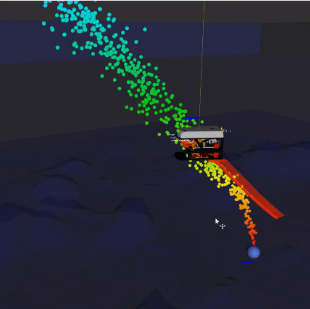
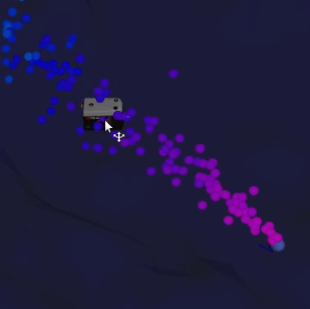
Final Portfolio writeup
Revising existing content on uuvsim page.

Changed region(s): [[0.0, 0.0, 1.0, 0.8738], [0.4645, 0.0874, 0.4935, 0.1165]]

diff --git a/projects/uuvsim.html b/projects/uuvsim.html
@@ -15,25 +15,28 @@
     </div>
 
     <div class="first">
-      This is my ongoing MSR winter quarter project. I will be using the plume simulation feature in the <a href="https://github.com/uuvsimulator/uuv_simulator" style="color: #00ccff" target="_blank">UUV Simulator</a> to implement various plume detection algorithms and methods. UUV Simulator was developed in the scope of the EU ECSEL project 662107 SWARMS for unmanned underwater vehicle simulation based on Gazebo and ROS by <a href="https://github.com/musamarcusso" style="color: #00ccff" target="_blank">Musa Morena Marcusso Manhaes</a>. Since its beginnings in 2016 it seems to have gained significant traction in the maritime ROS and robotics community, especially in Europe. It was a topic of discussion at underwater ROS workshops such as <a href="https://discourse.ros.org/t/bts-2018-workshop-adoption-of-conventions-in-the-underwater-ros-community/5389" style="color: #00ccff" target="_blank">BTS 2018</a> and a underwater ROS workshop <a href="https://discourse.ros.org/t/underwater-ros-workshop-woods-hole-oceanographic-institution/5197" style="color: #00ccff" target="_blank">at Woods Hole Oceanographic Institution</a>.
+      This is my MSR winter quarter project. I used the plume simulation feature in the <a href="https://github.com/uuvsimulator/uuv_simulator" style="color: #00ccff" target="_blank">UUV Simulator</a> to implement a plume detection and tracing algorithm. UUV Simulator was developed by <a href="https://github.com/musamarcusso" style="color: #00ccff" target="_blank">Musa Morena Marcusso Manhaes</a> in the scope of the EU ECSEL project 662107 SWARMS for unmanned underwater vehicle simulation based on Gazebo and ROS. It supports custom underwater robot models, thruster managers, and seabed models, as well as utilizing underwater dynamics and plume disperson models from academic papers and established works. Since when it began development in 2016 it seems to have gained significant traction in the maritime ROS and robotics community, especially in Europe. It was a topic of discussion at underwater ROS workshops such as <a href="https://discourse.ros.org/t/bts-2018-workshop-adoption-of-conventions-in-the-underwater-ros-community/5389" style="color: #00ccff" target="_blank">BTS 2018</a> and an underwater ROS workshop <a href="https://discourse.ros.org/t/underwater-ros-workshop-woods-hole-oceanographic-institution/5197" style="color: #00ccff" target="_blank">at Woods Hole Oceanographic Institution</a>.
       <br><br>
-      With this project I aim to familiarize myself with a potentially useful tool for future work and study in the field of underwater robots. Furthermore, I hope to continue to learn about the unique challenges that face robots in underwater environments through implementation of plume detection, a very common application of underwater robots in both commercial and scientific uses.
+      With this project I aimed to familiarize myself with a potentially useful tool for future work and study in the field of underwater robots. Furthermore, I hoped to learn about the unique challenges that face robots in underwater environments through implementation of plume detection and tracing, a very common application of underwater robots in both commercial and scientific uses.
     </div>
 
     <div class="second">
       <img src="../links/waypoint_following.png" class="waypoints">
       <div class="text1">
-        One large concern that I had had before going in was the simulator's compatibility with ROS Melodic, as all documentation and discussion seemed to assume use with Kinetic. If the simulator didn't work with Melodic, this problem could have potentially derailed the entire project. Fortunately, this did not come to pass and there were no issues stemming from ROS itself.
+        One large concern that I had had before going in was the simulator's compatibility with ROS Melodic, as all documentation and discussion seemed to assume use with Kinetic. If the simulator didn't work with Melodic, this could have potentially derailed the entire project. Fortunately, this did not come to pass and there were no issues stemming from ROS itself.
         <br><br>
-        However, I did find that the simulator assumed the installation of a few packages and libraries that my ROS environment did not have. These were: <a href="https://wiki.ros.org/message_to_tf" style="color: #00ccff" target="_blank">message_to_tf</a>, <a href="https://wiki.ros.org/geographic_msgs" style="color: #00ccff" target="_blank">geographic_msgs</a>, <a href="https://geographiclib.sourceforge.io" style="color: #00ccff" target="_blank">GeographicLib</a>. I assume that this assumption was due to how commonly used these packages are in other ROS packages - meaning that the authors would have had them installed for other purposes and therefore forgotten to document these dependencies.
+        However, I did find that the simulator assumed the installation of a few packages and libraries that my ROS environment did not have. These were: <a href="https://wiki.ros.org/message_to_tf" style="color: #00ccff" target="_blank">message_to_tf</a>, <a href="https://wiki.ros.org/geographic_msgs" style="color: #00ccff" target="_blank">geographic_msgs</a>, <a href="https://geographiclib.sourceforge.io" style="color: #00ccff" target="_blank">GeographicLib</a>. Judging by how commonly these packages seem to be depended on by other ROS projects, assuming that a user for this simulator would likely already have these packages is fairly reasonable.
       </div>
       <div class="text2">
-        First order of business once the simulator ran without errors was to ensure that all the components that I would need for the final test (plume tracing) worked. I started with moving the robot, which is done by giving the robot a list of waypoints to follow. The resulting simulation in RViz is shown above. 
+        To individually test and familiarize myself with the components that I would need for the final plume tracing portion of my project, I used the documentation and tutorials provided online and in the packages. Shown above is the RViz simulation of one of the tutorials, moving the robot with the default PID controller by passing it a list of positional waypoints. Moving the robot is also possible by passing in waypoints through a service call, which is what I used in my final implementation.
         <br><br>
-        Once this was successfully tested I moved onto the plume simulator. Looking at the launch files, it seems that there is an option to simulate the plume in Gazebo, however for the moment all work was done in RViz. I played around with different currents, the results of which can be seen below (vertical current on left, normal current on right). <a style="color: #00ccff">[Updated 2/11/2019]</a>
+        At this point I should mention that all the simulation for this project took place in RViz; the visualization for plume simulation is currently <a href="https://github.com/uuvsimulator/uuv_plume_simulator/issues/15#issuecomment-405820810" style="color: #00ccff" target="_blank">unavailable on Gazebo</a>. User-controllable options for the plume included: location of the source, plume visualization boundary, and velocity of the current (limited to horizontal manipulation). Simulated particles naturally rise due to buoyancy modelled within the simulator. Shown below is a plume with no current and a 'normal' plume. Colors represent time from creation - particles are continuously created at source. 
       </div>
       <img src="../links/vertical_plume.png" class="vertplume">
       <img src="../links/plume_elapsed.png" class="elapplume">
+    </div>
+
+    <div class="third">
     </div>
 
   </body>

diff --git a/css/uuvsim.css b/css/uuvsim.css
@@ -42,13 +42,20 @@ body {
 
 .first {
 	width: 1594px;
-	height: 400px;
+	height: 350px;
 	margin: 75px auto auto 150px;
 	font-size: 18px;
 	line-height: 30px;
 }
 
 .second {
+	width: 1594px;
+	margin: 0px auto auto 150px;
+	font-size: 18px;
+	line-height: 30px;
+}
+
+.third {
 	width: 1594px;
 	margin: 0px auto auto 150px;
 	font-size: 18px;
@@ -66,7 +73,7 @@ body {
 }
 
 .text2 {
-	margin: 50px auto 50px auto;
+	margin: 40px auto 50px auto;
 }
 
 .vertplume {

diff --git a/index.html b/index.html
@@ -22,7 +22,7 @@
         <a href="./projects/uuvsim.html">
           <img src="./links/uuvsim.png" class="uuvsimthumb">
         </a>
-        <div class="uuvsimthumbtext">Plume Tracing in UUV Simulator (In Progress)</div>
+        <div class="uuvsimthumbtext">Plume Tracing in UUV Simulator</div>
       </div>
 
       <div class="pong">

diff --git a/css/style.css b/css/style.css
@@ -81,7 +81,7 @@ body {
 
 .uuvsimthumbtext {
 	position: absolute;
-	top: 35%;
+	top: 40%;
 	left: 12%;
 	color: white;
 	font-size: 24px;
